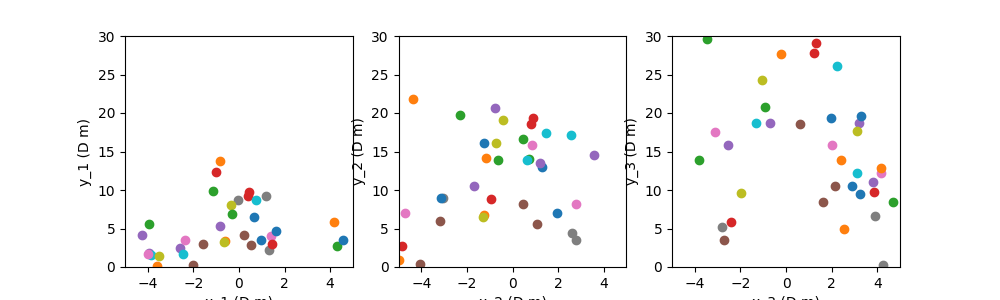
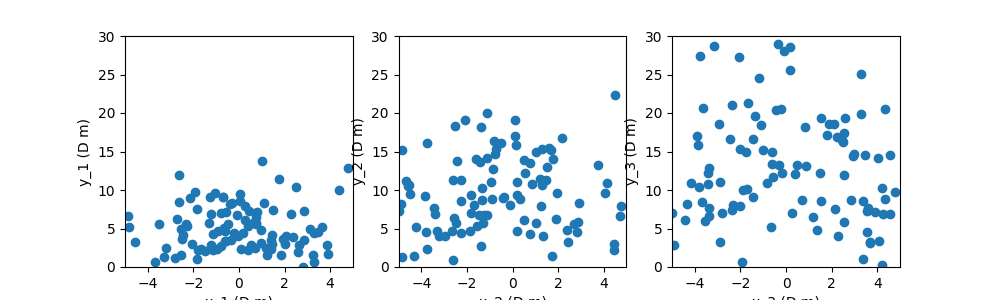
Create monte carlo function

diff --git a/regular_array_sampling/functions.py b/regular_array_sampling/functions.py
@@ -109,10 +109,43 @@ def find_important_turbines(S_x, S_y, S_off, theta):
 
     Returns
     -------
-    turbine coords: ndarray of shape(3, 2)
+    turbine coords: ndarray of shape(6,)
         The x, y coordinates of the three closest
     turbines in a regular arrangment
     """
     farm_coords = make_wind_farm_coords(S_x, S_y, S_off, theta)
     closest_turbines = np.argsort(farm_coords[:, 2])
-    return farm_coords[closest_turbines[1:4], :2]
+    turbine_coords = farm_coords[closest_turbines[1:4], :2]
+    turbine_coords = np.reshape(turbine_coords, 6)
+    return turbine_coords
+
+def regular_array_monte_carlo(n_samples):
+    """ Monte carlo sample regular arrays in the range
+    S_x = [2,20], S_y = [2,20], S_off = [-S_x, S_x]
+    theta = [0, pi]
+    Only returns arrangements where the 3 turbines are in
+    the domain x = [-5, 5] and y = [0,30]
+
+    Parameters
+    ----------
+    n_samples: int
+        The number of turbine arrangements sampled
+    
+    Returns
+    -------
+    turbine_coords: ndarray of shape (n_samples, 6)
+    """
+    layout_coords = np.zeros((n_samples, 6))
+    sample_successes = 0
+    while sample_successes < n_samples:
+        S_x = np.random.uniform(2, 20)
+        S_y = np.random.uniform(2, 20)
+        S_off = np.random.uniform(-S_x, S_x)
+        theta = np.random.uniform(0, np.pi)
+        turbine_coords = find_important_turbines(S_x, S_y, S_off, theta)
+        # check if all turbines are in x3 = [-5,5], y3 = [0,30]
+        if np.all(np.abs(turbine_coords[[0,2,4]]) < 5) \
+            and np.all(turbine_coords[[1,3,5]] < 30):
+            layout_coords[sample_successes, :] = turbine_coords
+            sample_successes += 1
+    return layout_coords

diff --git a/analysis/regular_array_monte_carlo.py b/analysis/regular_array_monte_carlo.py
@@ -4,11 +4,10 @@ import numpy as np
 import sys
 import matplotlib.pyplot as plt
 sys.path.append(r'/home/andrewkirby72/phd_work/data_synthesis')
-from regular_array_sampling.functions import find_important_turbines
+from regular_array_sampling.functions import regular_array_monte_carlo
 
 
 num_iters = 10000
-turbine_coords = np.zeros(6)
 
 fig = plt.figure(figsize=(10.0, 3.0))
 turbine1 = fig.add_subplot(1, 3, 1)
@@ -27,18 +26,10 @@ turbine3.set_ylim([0, 30])
 turbine3.set_xlabel('x_3 (D m)')
 turbine3.set_ylabel('y_3 (D m)')
 
-for i in range(num_iters):
-    S_x = np.random.uniform(2, 20)
-    S_y = np.random.uniform(2, 20)
-    S_off = np.random.uniform(-S_x, S_x)
-    theta = np.random.uniform(0, np.pi)
-    turbine_coords = find_important_turbines(S_x, S_y, S_off, theta)
-    # check if 3rd turbine is in x3 = [-5,5], y3 = [0,30]
-    if np.all(np.abs(turbine_coords[:, 0]) < 5) \
-            and np.all(turbine_coords[:, 1] < 30):
-        turbine1.scatter(turbine_coords[0, 0], turbine_coords[0, 1])
-        turbine2.scatter(turbine_coords[1, 0], turbine_coords[1, 1])
-        turbine3.scatter(turbine_coords[2, 0], turbine_coords[2, 1])
+turbine_coords = regular_array_monte_carlo(num_iters)
+turbine1.scatter(turbine_coords[:, 0], turbine_coords[:, 1])
+turbine2.scatter(turbine_coords[:, 2], turbine_coords[:, 3])
+turbine3.scatter(turbine_coords[:, 4], turbine_coords[:, 5])
 
 plt.savefig('analysis/regular_array_monte_carlo_plots/regular_array_monte_carlo'\
     +str(num_iters)+'.png')

diff --git a/tests/test_regular_array.py b/tests/test_regular_array.py
@@ -7,12 +7,12 @@ def test_closest_turbines_calc():
     """Test that find_important_turbines correctly calculates
     the coordinates of the closest turbines
     """
-    test_answer = np.array([[0, 6], [0, 12], [0, 18]])
+    test_answer = np.array([0, 6, 0, 12, 0, 18])
     npt.assert_array_equal(find_important_turbines(6,6,0,0), test_answer)
     npt.assert_array_almost_equal(find_important_turbines(6,6,0,np.pi/2), test_answer)
-    test_answer = np.array([[1.5, 6], [3, 12], [-6, 12]])
+    test_answer = np.array([1.5, 6, 3, 12, -6, 12])
     npt.assert_array_equal(find_important_turbines(9,6,1.5,0), test_answer)
-    test_answer = np.array([[0, 3], [0, 6], [0, 9]])
+    test_answer = np.array([0, 3, 0, 6, 0, 9])
     npt.assert_array_almost_equal(find_important_turbines(3,6,0,np.pi/2), test_answer)
     test_answer = np.array([-6*np.sin(0.1), 6*np.cos(0.1)])
-    npt.assert_array_almost_equal(find_important_turbines(6,6,0,0.1)[0,:], test_answer)
+    npt.assert_array_almost_equal(find_important_turbines(6,6,0,0.1)[:2], test_answer)
